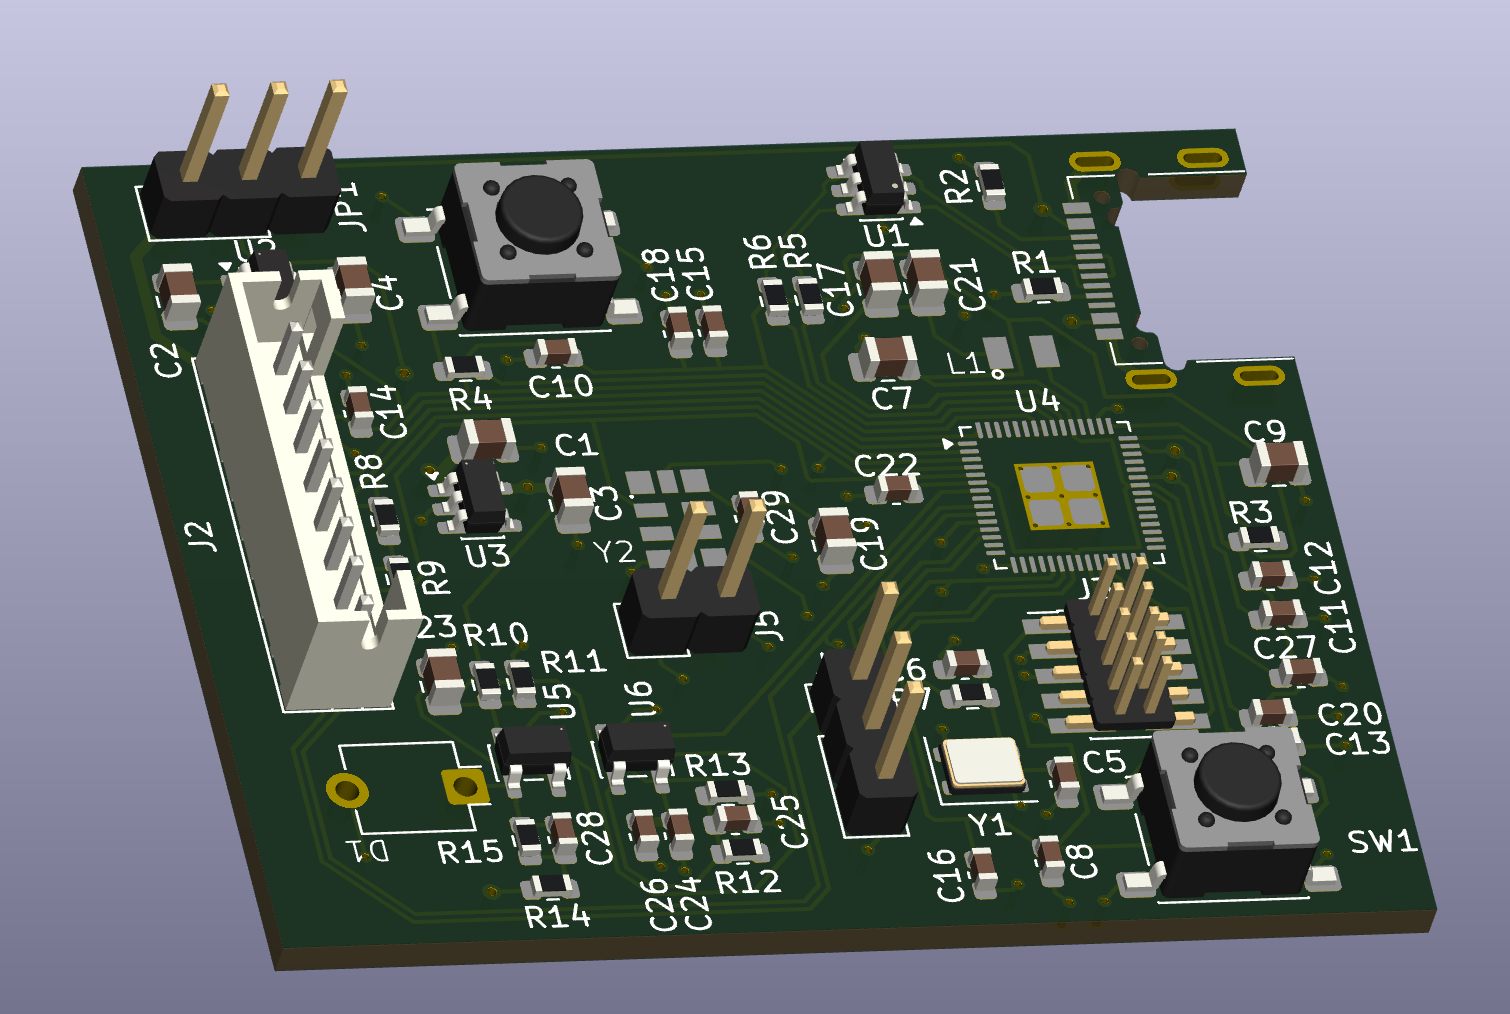
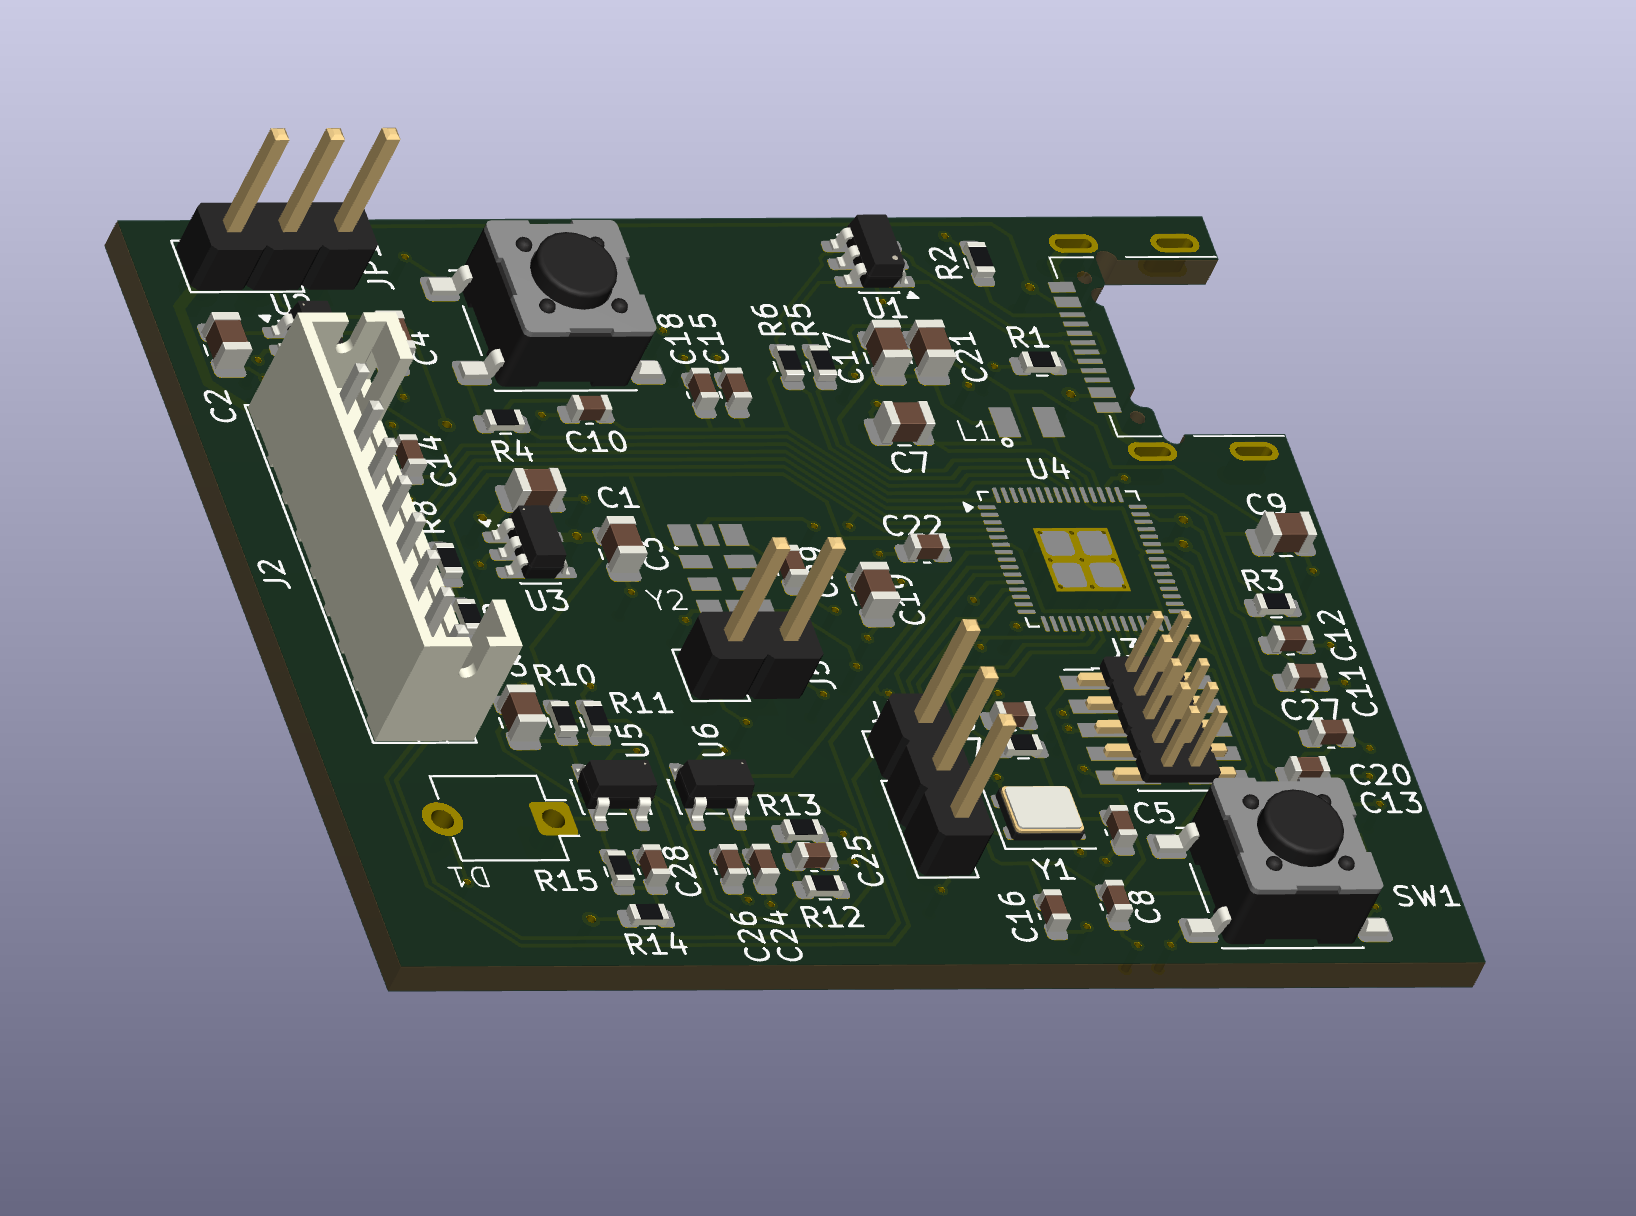
README and Images

diff --git a/README.md b/README.md
@@ -31,7 +31,7 @@ Two separate \(4\)-layer boards:
 
 ### TX PCB: 
 
-<img src="images/TX-PCB-design.png" alt="pcb design" width="400" /><img src="images/TX-PCB.png" alt="pcb" width="400" />
+<img src="images/TX-PCB-design.png" alt="pcb design" width="390" /><img src="images/TX-PCB.png" alt="pcb" width="400" />
 
 ### RX schamtics:
 
@@ -39,7 +39,7 @@ Two separate \(4\)-layer boards:
 
 ### RX PCB: 
 
-<img src="images/RX-PCB-design.png" alt="pcb design" width="400" /><img src="images/RX-PCB.png" alt="pcb" width="400" />
+<img src="images/RX-PCB-design.png" alt="pcb design" width="390" /><img src="images/RX-PCB.png" alt="pcb" width="405" />
 
 ## Library:
 ### Pre-built Components Compatibility Verfication:
